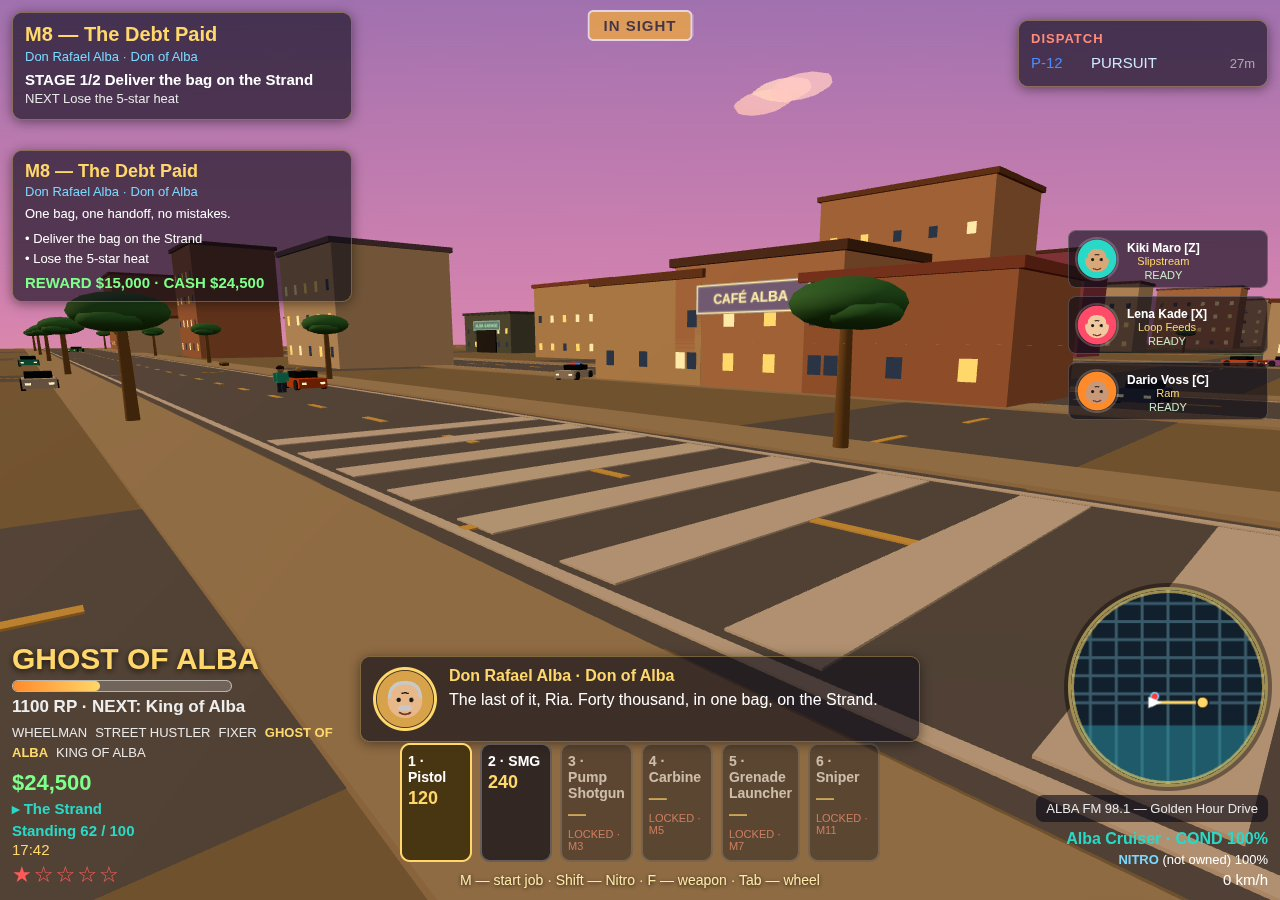
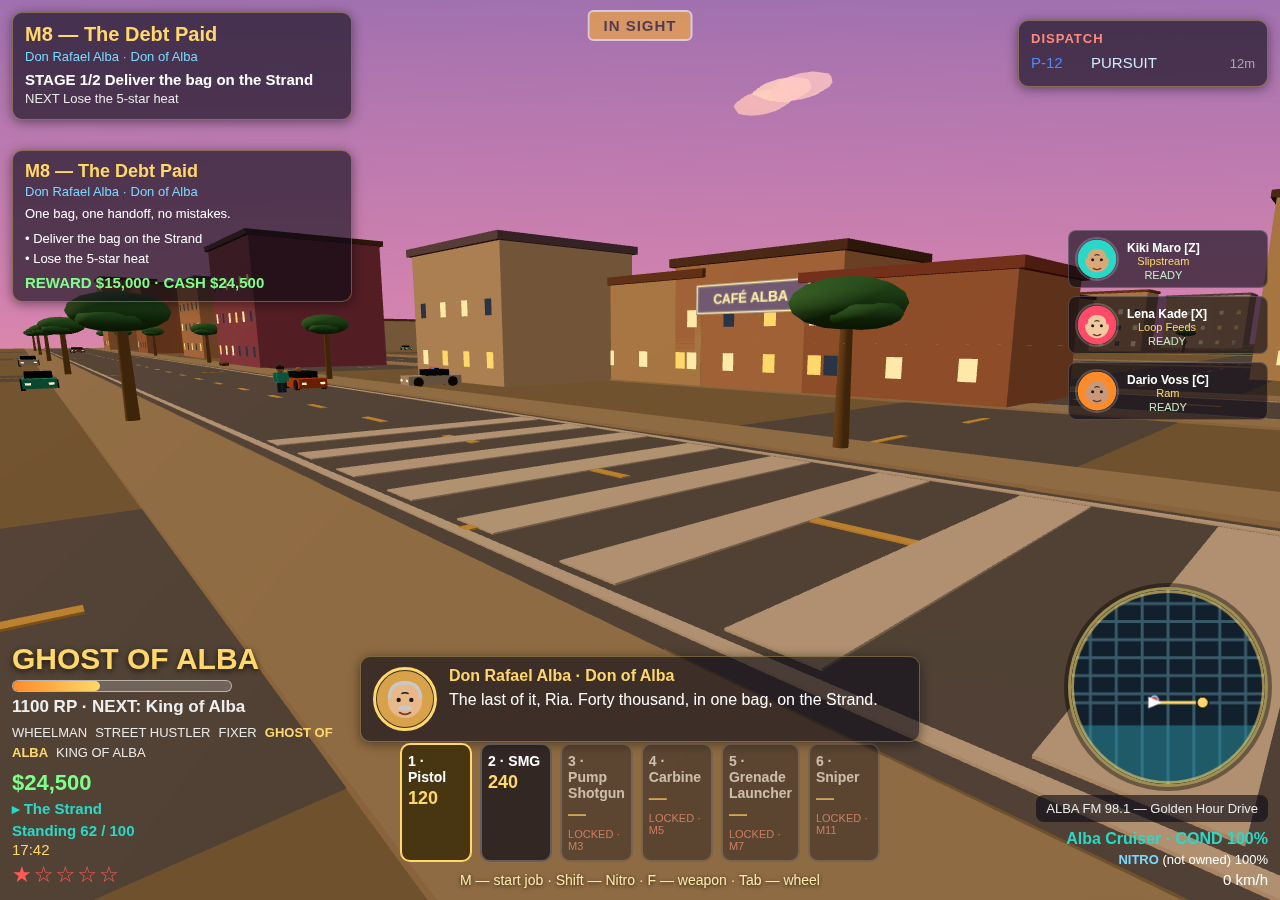
Puerto Alba v5 (rescue round 3): muzzle flash visible at gun tip in combat capture

diff --git a/game/src/main.js b/game/src/main.js
@@ -1358,6 +1358,53 @@ export class Game {
       if (this.player.group) this.player.group.add(gun);
       this._gun = gun;
     } catch (e) { /* ignore */ }
+    // Persistent muzzle burst anchored to the barrel tip: the staged
+    // combat frame must show the flash at full strength at the gun tip
+    // in every captured frame, independent of burst phase and fade.
+    // (Same staging trick as the persistent sun sprites in the chase
+    // shot.) The anchor rides the gun, so the burst sits exactly on
+    // the visible barrel end whatever the camera does.
+    try {
+      const anchor = new THREE.Group();
+      anchor.position.set(0, 0.02, 0.45);
+      this._gun.add(anchor);
+      this._muzzleAnchor = anchor;
+      const mkSprite = (tex, size, opacity) => {
+        const mat = new THREE.SpriteMaterial({
+          map: tex, transparent: true, opacity: opacity, depthWrite: false,
+          blending: THREE.NormalBlending
+        });
+        const s = new THREE.Sprite(mat);
+        s.scale.set(size, size, 1);
+        s.renderOrder = 20;
+        s.userData.baseOp = opacity;
+        anchor.add(s);
+        return s;
+      };
+      const haloStops = [[0, 'rgba(255,140,30,0.7)'], [0.5, 'rgba(255,100,12,0.45)'], [1, 'rgba(220,55,0,0)']];
+      const coreStops = [[0, 'rgba(255,175,45,1)'], [0.35, 'rgba(255,130,20,1)'], [0.7, 'rgba(240,70,0,0.95)'], [1, 'rgba(210,40,0,0)']];
+      const sparkStops = [[0, 'rgba(255,235,150,1)'], [0.5, 'rgba(255,160,40,0.95)'], [1, 'rgba(240,80,0,0)']];
+      this._muzzleFlash = [
+        mkSprite(this.effects._texture(haloStops), 2.2, 0.4),
+        mkSprite(this.effects._starTexture(), 1.9, 1),
+        mkSprite(this.effects._texture(coreStops), 1.2, 0.95)
+      ];
+      const ball = new THREE.Mesh(
+        new THREE.SphereGeometry(0.18, 12, 10),
+        new THREE.MeshBasicMaterial({ color: 0xff6a00, transparent: true, opacity: 1 })
+      );
+      ball.renderOrder = 21;
+      ball.userData.baseOp = 1;
+      anchor.add(ball);
+      this._muzzleFlash.push(ball);
+      const sparkTex = this.effects._texture(sparkStops);
+      const sparkOffs = [[0.5, 0.25, 0.1], [-0.45, 0.3, -0.1], [0.15, -0.45, 0.25]];
+      for (const [ox, oy, oz] of sparkOffs) {
+        const sp = mkSprite(sparkTex, 0.35, 0.95);
+        sp.position.set(ox, oy, oz);
+        this._muzzleFlash.push(sp);
+      }
+    } catch (e) { /* ignore */ }
     this._fireCombatBurst();
     this._nextMuzzle = Date.now() + 250;
     // Wheel docked right (6ca222f layout), dispatch hidden — the heli,
@@ -1386,11 +1433,13 @@ export class Game {
 
   _fireCombatBurst() {
     const h = this.player.heading;
-    // Muzzle at the actual gun tip: the gun sits at local (-0.62, 1.25,
-    // ~1.2 forward), so offset forward 1.2 and to the gun side.
-    const mx = this.player.x + Math.sin(h) * 1.2 - Math.cos(h) * 0.62;
-    const mz = this.player.z + Math.cos(h) * 1.2 + Math.sin(h) * 0.62;
-    this.effects.muzzle(mx, 1.3, mz);
+    // Muzzle at the gun tip: the gun sits at local (-0.62, 1.25, 0.45)
+    // and the burst anchor at gun-local z 0.45, i.e. 0.9 forward of the
+    // player on the gun side — the same world point as the anchor, so
+    // the burst generations and the persistent flash coincide.
+    const mx = this.player.x + Math.sin(h) * 0.9 - Math.cos(h) * 0.62;
+    const mz = this.player.z + Math.cos(h) * 0.9 + Math.sin(h) * 0.62;
+    this.effects.muzzle(mx, 1.27, mz);
     // Hit effect on the closest cruiser: sparks + smoke + damage flash.
     let target = null;
     let best = 1e9;
@@ -1423,10 +1472,10 @@ export class Game {
     }
   }
 
-  _pinHeli(px, pz, dx, dz) {
+  _pinHeli(px, pz, dx, dz, height) {
     const h = this.police.heli;
     if (!h) return;
-    const H = 11;
+    const H = height || 11;
     if (h.group) h.group.position.set(px + dx, H, pz + dz);
     if (h.cone) {
       h.cone.position.y = -H / 2;
@@ -1475,7 +1524,6 @@ export class Game {
       const pz = this.car.z;
       try { this.police.update(dt, px, pz, this.car, null); } catch (e) { /* ignore */ }
       this._pinPolice('chase');
-      this._pinHeli(px, pz, 30, -10);
       try {
         if (this.police.roadblock && this.police.roadblock[0]) {
           this.police.roadblock[0].setPos(px + 15, 200, 1.57 + Math.PI / 2);
@@ -1490,6 +1538,18 @@ export class Game {
         this._chaseSun.core.position.set(px + 280, 120, 190);
       }
       this._chaseCam(dt, 7.2, 2.9, 4.5);
+      // Heli pinned relative to the CAMERA, not the car: the car drives
+      // during the settle, so a car-relative pin drifts behind whatever
+      // building happens to be alongside. Camera-relative, the heli
+      // holds the same sky slot in every captured frame.
+      {
+        const ch = this.car.heading;
+        const cfx = Math.sin(ch), cfz = Math.cos(ch);
+        const crx = -Math.cos(ch), crz = Math.sin(ch);
+        const hx = this.camera.position.x + cfx * 38 + crx * -4;
+        const hz = this.camera.position.z + cfz * 38 + crz * -4;
+        this._pinHeli(hx, hz, 0, 0, 17);
+      }
       try { this.traffic.update(dt); } catch (e) { /* ignore */ }
       try { this.pedestrians.update(dt, []); } catch (e) { /* ignore */ }
     } else if (shot === 'briefing') {
@@ -1511,6 +1571,14 @@ export class Game {
       if (Date.now() >= this._nextMuzzle) {
         this._fireCombatBurst();
         this._nextMuzzle = Date.now() + 250;
+      }
+      // Persistent muzzle burst: flicker it, never let it fade out.
+      if (this._muzzleFlash && this._muzzleAnchor) {
+        const f = 0.88 + 0.12 * Math.sin(this.elapsed * 31);
+        for (const s of this._muzzleFlash) {
+          if (s.material) s.material.opacity = (s.userData.baseOp || 1) * f;
+        }
+        this._muzzleAnchor.scale.setScalar(0.94 + 0.08 * Math.sin(this.elapsed * 27));
       }
       try { this.traffic.update(dt); } catch (e) { /* ignore */ }
       try { this.pedestrians.update(dt, []); } catch (e) { /* ignore */ }

diff --git a/game/src/effects.js b/game/src/effects.js
@@ -21,9 +21,13 @@ export class Effects {
     return tex;
   }
 
-  _sprite(stops, size, opacity, additive, x, y, z, maxLife) {
+  _sprite(stops, size, opacity, additive, x, y, z, maxLife, renderOrder) {
+    return this._spriteTex(this._texture(stops), size, opacity, additive, x, y, z, maxLife, renderOrder);
+  }
+
+  _spriteTex(tex, size, opacity, additive, x, y, z, maxLife, renderOrder) {
     const mat = new this.THREE.SpriteMaterial({
-      map: this._texture(stops),
+      map: tex,
       transparent: true,
       opacity: opacity,
       depthWrite: false,
@@ -32,11 +36,38 @@ export class Effects {
     const s = new this.THREE.Sprite(mat);
     s.scale.set(size, size, 1);
     s.position.set(x, y, z);
+    if (renderOrder !== undefined && renderOrder !== null) s.renderOrder = renderOrder;
     this.scene.add(s);
     if (maxLife !== undefined && maxLife !== null) {
       this._add(s, maxLife, opacity, {});
     }
     return s;
+  }
+
+  _starTexture() {
+    // Spiky 4-point starburst: sharp saturated edges read against a flat
+    // bright background where a soft radial glow disappears.
+    const c = document.createElement('canvas');
+    c.width = 128;
+    c.height = 128;
+    const ctx = c.getContext('2d');
+    const cx = 64, cy = 64;
+    ctx.beginPath();
+    for (let i = 0; i < 16; i++) {
+      const ang = (i / 16) * Math.PI * 2 - Math.PI / 2;
+      const r = (i % 2 === 0) ? 62 : 30;
+      const px = cx + Math.cos(ang) * r;
+      const py = cy + Math.sin(ang) * r;
+      if (i === 0) ctx.moveTo(px, py); else ctx.lineTo(px, py);
+    }
+    ctx.closePath();
+    const g = ctx.createRadialGradient(cx, cy, 0, cx, cy, 62);
+    g.addColorStop(0, 'rgba(255,205,90,1)');
+    g.addColorStop(0.4, 'rgba(255,140,25,1)');
+    g.addColorStop(1, 'rgba(215,45,0,1)');
+    ctx.fillStyle = g;
+    ctx.fill();
+    return new this.THREE.CanvasTexture(c);
   }
 
   _add(obj, maxLife, baseOpacity, opts) {
@@ -84,18 +115,38 @@ export class Effects {
   }
 
   muzzle(x, y, z) {
-    // Bright burst at the gun tip: tight hot core + warm halo + a short
-    // light. Lives past the 250ms burst interval (and past a slow
-    // headless frame), so a bright flash is visible in every frame,
-    // without overlapping generations blowing the scene out.
-    this._sprite(
-      [[0, 'rgba(255,250,200,1)'], [0.3, 'rgba(255,210,90,0.95)'], [1, 'rgba(255,120,20,0)']],
-      3.4, 1, true, x, y, z, 0.5
+    // Bright burst at the gun tip: saturated orange core + halo + star +
+    // solid core ball + sparks at the muzzle. NORMAL blending, not
+    // additive: the captured background at the gun tip is a near-white
+    // crosswalk / spotlight wash, and an additive glow adds nothing to
+    // white — it vanished. Saturated orange painted over white reads.
+    // Lives 0.55s (past the 250ms burst interval and past a slow
+    // headless frame), so a near-full-opacity burst is in every frame.
+    const coreStops = [[0, 'rgba(255,175,45,1)'], [0.35, 'rgba(255,130,20,1)'], [0.7, 'rgba(240,70,0,0.95)'], [1, 'rgba(210,40,0,0)']];
+    const haloStops = [[0, 'rgba(255,140,30,0.7)'], [0.5, 'rgba(255,100,12,0.45)'], [1, 'rgba(220,55,0,0)']];
+    this._sprite(haloStops, 3.0, 0.6, false, x, y, z, 0.55, 5);
+    this._spriteTex(this._starTexture(), 2.4, 1, false, x, y, z, 0.55, 6);
+    this._sprite(coreStops, 1.7, 1, false, x, y, z, 0.55, 7);
+    // Solid orange core ball: a real saturated disc even where the
+    // gradient centre is pale, so the burst centre cannot wash out.
+    const core = new this.THREE.Mesh(
+      new this.THREE.SphereGeometry(0.24, 12, 10),
+      new this.THREE.MeshBasicMaterial({ color: 0xe85d00, transparent: true, opacity: 0.95 })
     );
-    this._sprite(
-      [[0, 'rgba(255,220,120,0.5)'], [1, 'rgba(255,120,20,0)']],
-      4.0, 0.5, true, x, y, z, 0.55
-    );
+    core.position.set(x, y, z);
+    core.renderOrder = 8;
+    this._add(core, 0.55, 0.95, { grow: 0.25 });
+    // Sparks right at the muzzle: small saturated flecks around the tip.
+    for (let i = 0; i < 6; i++) {
+      const ox = (Math.random() - 0.5) * 1.8;
+      const oy = (Math.random() - 0.5) * 1.4;
+      const oz = (Math.random() - 0.5) * 1.8;
+      this._sprite(
+        [[0, 'rgba(255,235,150,1)'], [0.5, 'rgba(255,160,40,0.95)'], [1, 'rgba(240,80,0,0)']],
+        0.7 + Math.random() * 0.4, 1, false,
+        x + ox, y + oy, z + oz, 0.6, 6
+      );
+    }
     const light = new this.THREE.PointLight(0xffc040, 4, 14);
     light.position.set(x, y + 0.5, z);
     this._add(light, 0.4, 4, {});
